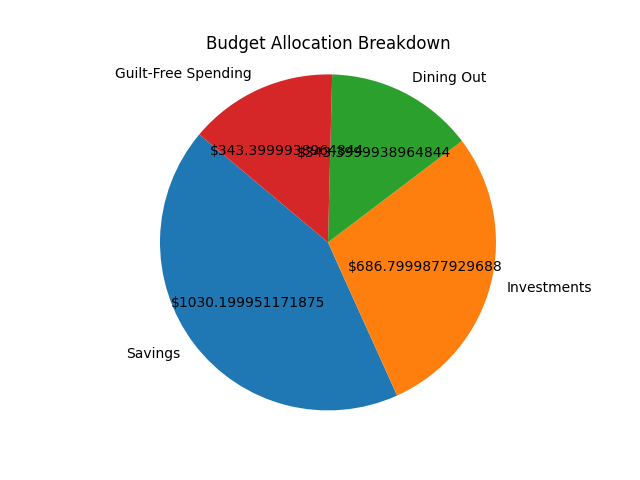
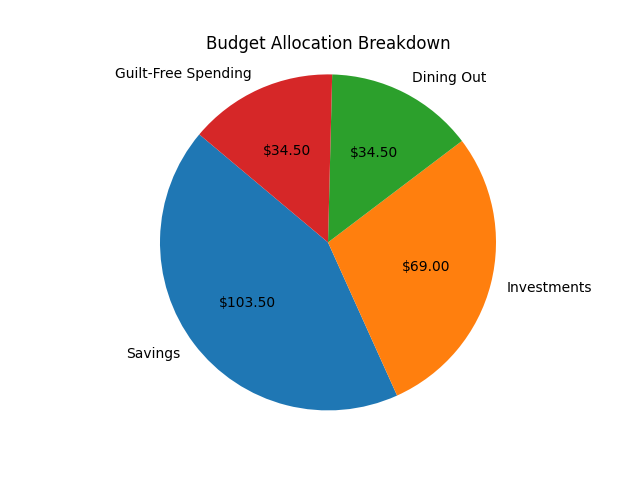
set pie chart to two decimal

Changed region(s): [[0.3438, 0.2812, 0.7188, 0.3438], [0.25, 0.5938, 0.5, 0.6562], [0.5312, 0.5312, 0.7812, 0.5625]]

diff --git a/Budget_Percentage_Calculation.py b/Budget_Percentage_Calculation.py
@@ -52,7 +52,7 @@ class Budget:
         # function to format the labels with value 
         def func(pct, allvals): #pct: The percentage of the pie slice (how much of the total the slice represents).allvals: The list of all values (like values), which represents the total money in each category.
             absolute = round(pct / 100.*sum(allvals), 2)
-            return f"${absolute}" 
+            return f"${absolute:.2f}" 
         
 
         plt.pie(values, labels=categories, autopct=lambda pct: func(pct, values), startangle=140)
